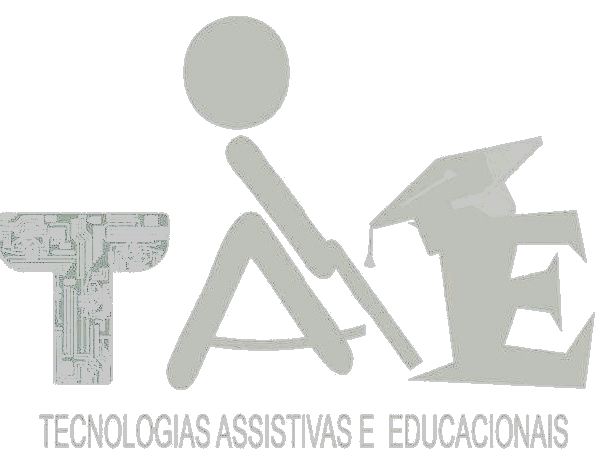
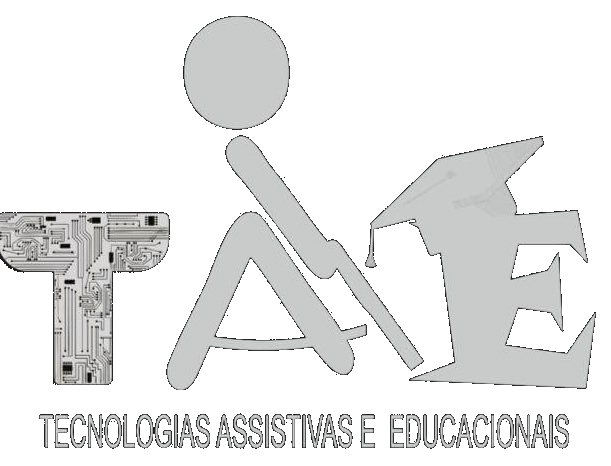
modificações no visual do app

diff --git a/screens/QuemSomosNos.js b/screens/QuemSomosNos.js
@@ -9,11 +9,11 @@ export default function QuemSomosNos({ navigation }) {
   const [showTAE, setTAE] = useState(false);
   const [showDev, setDev] = useState(false);
   const deviceTheme = useColorScheme(); var theme = light; var foto = true; if(deviceTheme == "dark"){theme = dark; foto = false;}else {theme = light; foto = true;}
-  var icon = foto ? require('../assets/tae.jpeg') : require('../assets/tae2.png');
+  var icon = foto ? require('../assets/tae.jpeg') : require('../assets/tae.png');
 
   return (
     <ScrollView style={theme.container}>
-      <Text style={theme.titulo}>Quem somos ?</Text>
+      <Text style={theme.titulo}>{'\n'}Quem somos? {'\n'}</Text>
       <Divider style={{backgroundColor:'#016EA4', height: 10}}/>
       <View accessible={true} accessibilityHint="Pressione para exibir informações sobre os desenvolvedores" accessibilityState={{checked:showDev}} style={{ flex: 1, flexDirection: 'row', alignItems: 'center', margin: 2 }}>
          <Icon style={theme.icon} name='dev' type='font-awesome-5'/>

diff --git a/screens/HomeScreen.js b/screens/HomeScreen.js
@@ -9,11 +9,12 @@ export default function HomeScreen({ navigation }) {
   var theme = light; var foto = true;
   if(deviceTheme == "dark"){theme = dark; foto = false;}else {theme = light; foto = true;}
   var icon = foto ? require('../assets/tae1.jpeg') : require('../assets/tae1.png');
+  var icon2 = foto ? require('../assets/logo_ufc.png') : require('../assets/logo.png');
   return (
     <ScrollView style={theme.container}>
-        <View style={{flex: 1, flexDirection: 'row',justifyContent:'center', margin: 2}}>
+        <View style={{flex: 1, flexDirection: 'row',justifyContent:'center', margin: 25}}>
             <Image 
-              source={require('../assets/logo_ufc.png')}
+              source={icon2}
               style={{width:150,height:150}}
             />
             <Image 

diff --git a/screens/Sigaa/Sigga.js b/screens/Sigaa/Sigga.js
@@ -60,8 +60,8 @@ export default function Sigga(){
 				<View style={theme.inputContainerSenha}>
 					<TextInput style={theme.inputSenha} onChangeText={(e)=>setSenha(e)} placeholder={'Senha'} secureTextEntry={hidePass}/>
 					<TouchableOpacity style={theme.iconEye} onPress={() => sethidePass(!hidePass)}>
-						{ hidePass ? <Ionicons name="eye" color="#858585" size={25}></Ionicons> : 
-						<Ionicons name="eye-off" color="#858585" size={25}></Ionicons>}
+						{ hidePass ? <Ionicons name="eye-off" color="#858585" size={23.3}></Ionicons> : 
+						<Ionicons name="eye" color="#858585" size={23.3}></Ionicons>}
 					</TouchableOpacity>
 				</View>	
 				<View style={theme.inputContainerSigaa}>

diff --git a/screens/Mapa.js b/screens/Mapa.js
@@ -51,7 +51,7 @@ function DescricaoComponent({menuHandler, isOpen, lugares}){
 export default function Mapa({ navigation }) {
 	const deviceTheme = useColorScheme();
   	var theme = light;
-	var opac = 0.8;
+	var opac = 1;
   	if(deviceTheme == "dark"){theme = dark; opac=0.8;}else {theme = light; opac=1;}
 	//codigo javascript para apagar a barra de pesquisa do site
 	const javascriptCode = `

diff --git a/assets/css/dark.js b/assets/css/dark.js
@@ -43,7 +43,7 @@ const dark = StyleSheet.create({
   },
   titulo:{
     fontSize:30,
-    marginTop:10,
+    marginTop:1,
     color:'white',
     textAlign: "center",
     width:'100%', 
@@ -210,7 +210,7 @@ const dark = StyleSheet.create({
 	textSigaa:{
 		fontSize:40,
 		margin:20,
-		color:'#2ddaec'
+		color:'#ccc'
 	},
 	inputContainerSigaa:{
 		width:'80%'

diff --git a/App.js b/App.js
@@ -25,7 +25,7 @@ const CustomDrawer = (props) =>{
       <View style={{flexDirection: 'row',
         justifyContent:'center'}}>
         <Image 
-        source={require('./assets/logo_ufc.png')}
+        source={require('./assets/icon1.png')}
         style={css.logoApp}
         />
       </View>

diff --git a/assets/css/light.js b/assets/css/light.js
@@ -39,7 +39,7 @@ const light = StyleSheet.create({
   },
   titulo:{
     fontSize:30,
-    marginTop:10,
+    marginTop:1,
     color:'black',
     textAlign: "center",
     width:'100%', 
